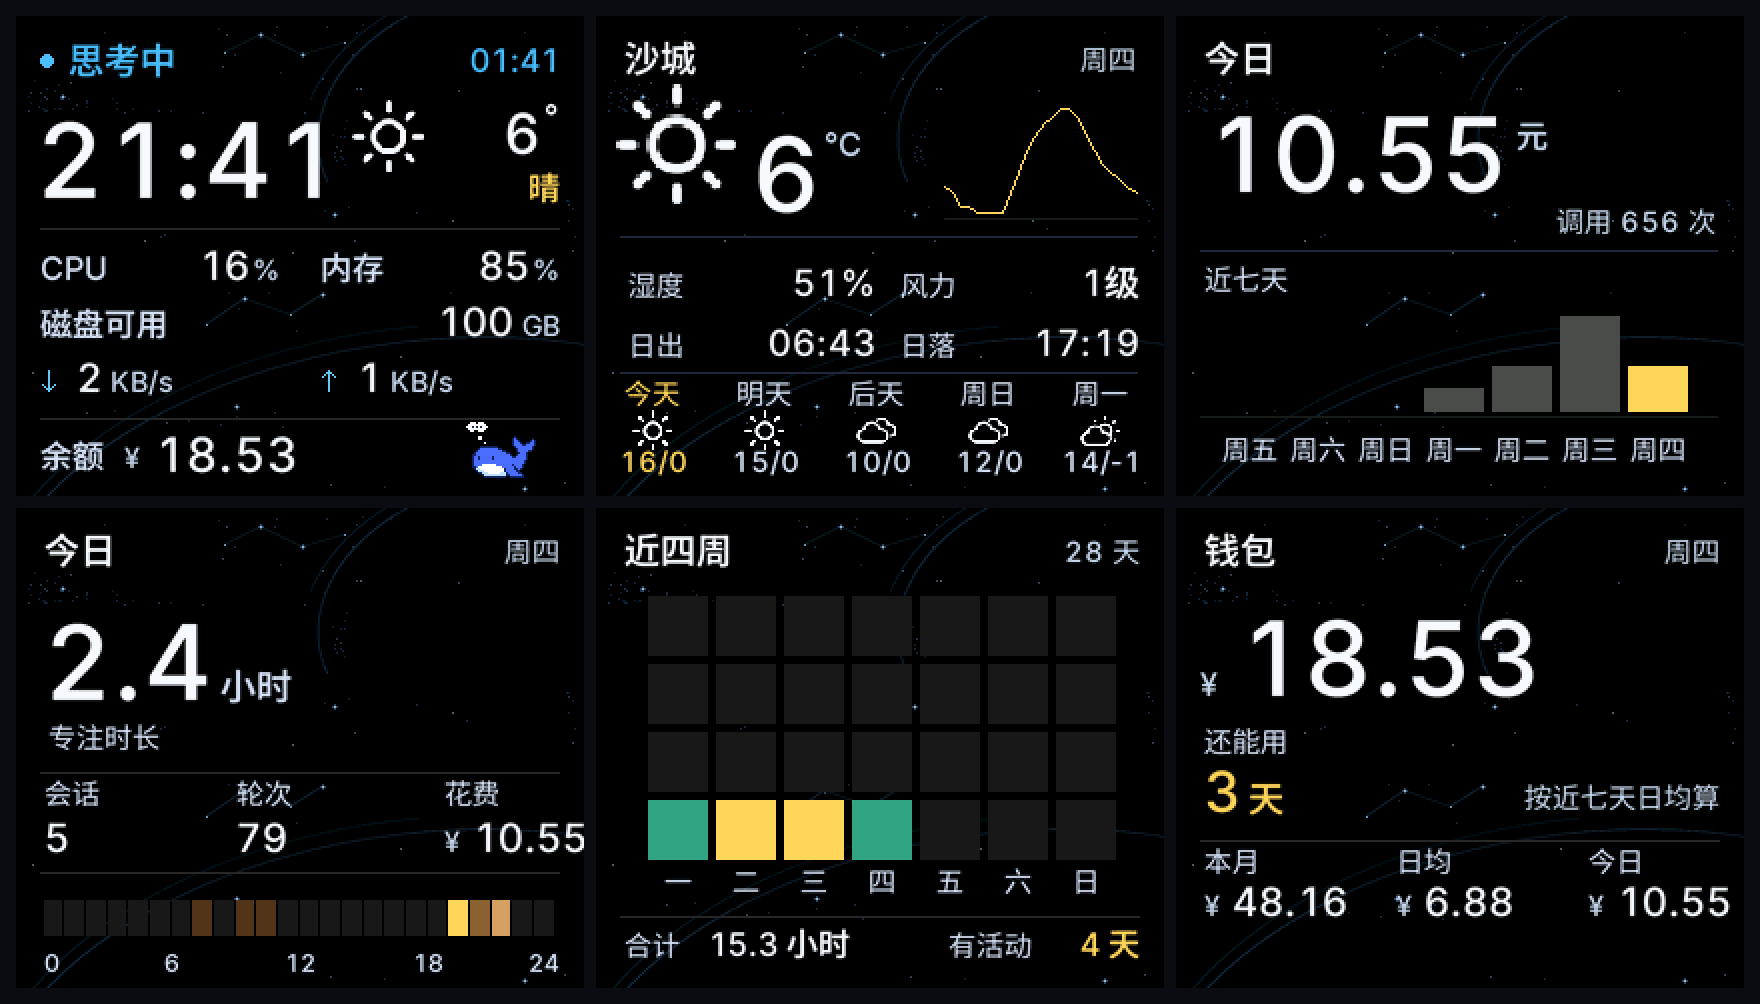
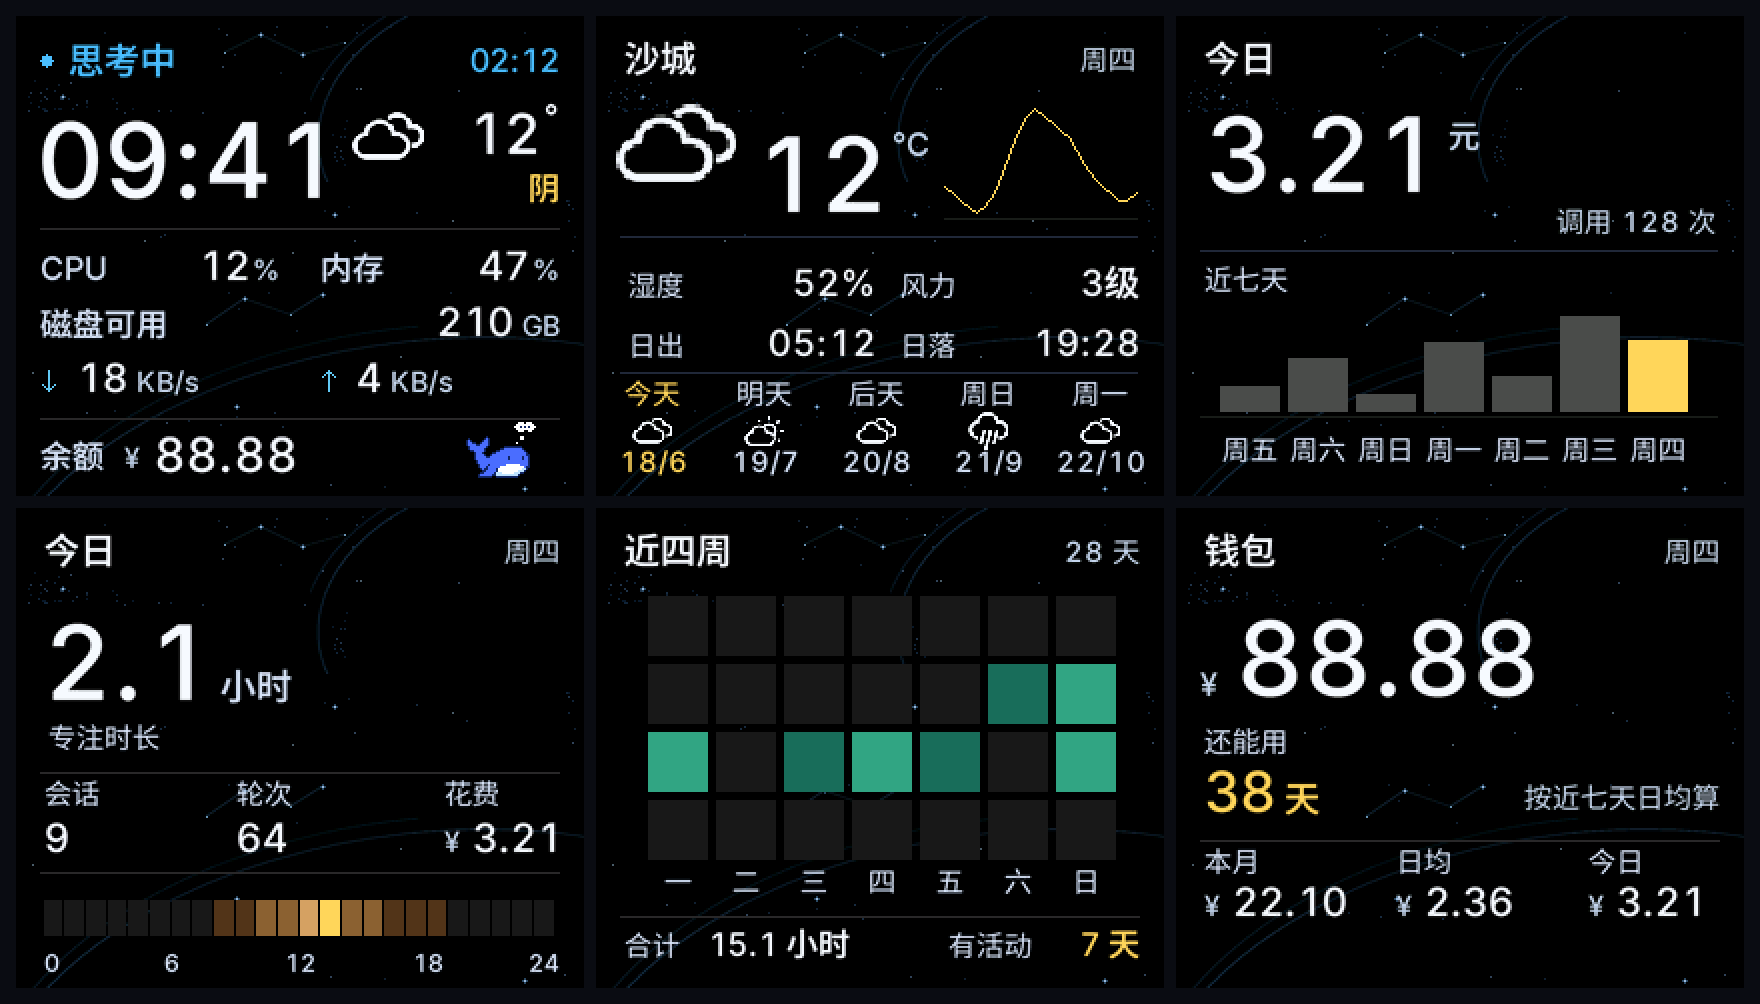
docs: use sample data in screenshots

diff --git a/README.md b/README.md
@@ -4,6 +4,8 @@ A 284×240 desk board for your Mac: weather, machine load, AI usage, spending, a
 
 ![six pages](docs/six-pages.png)
 
+*Screenshots rendered with sample data (host-side harness, same firmware code).*
+
 > Built for DeepSeek Harness users, but the firmware and the serial protocol are generic — any script that writes a `DSH|...` line can feed it.
 
 ## Pages · 六页
